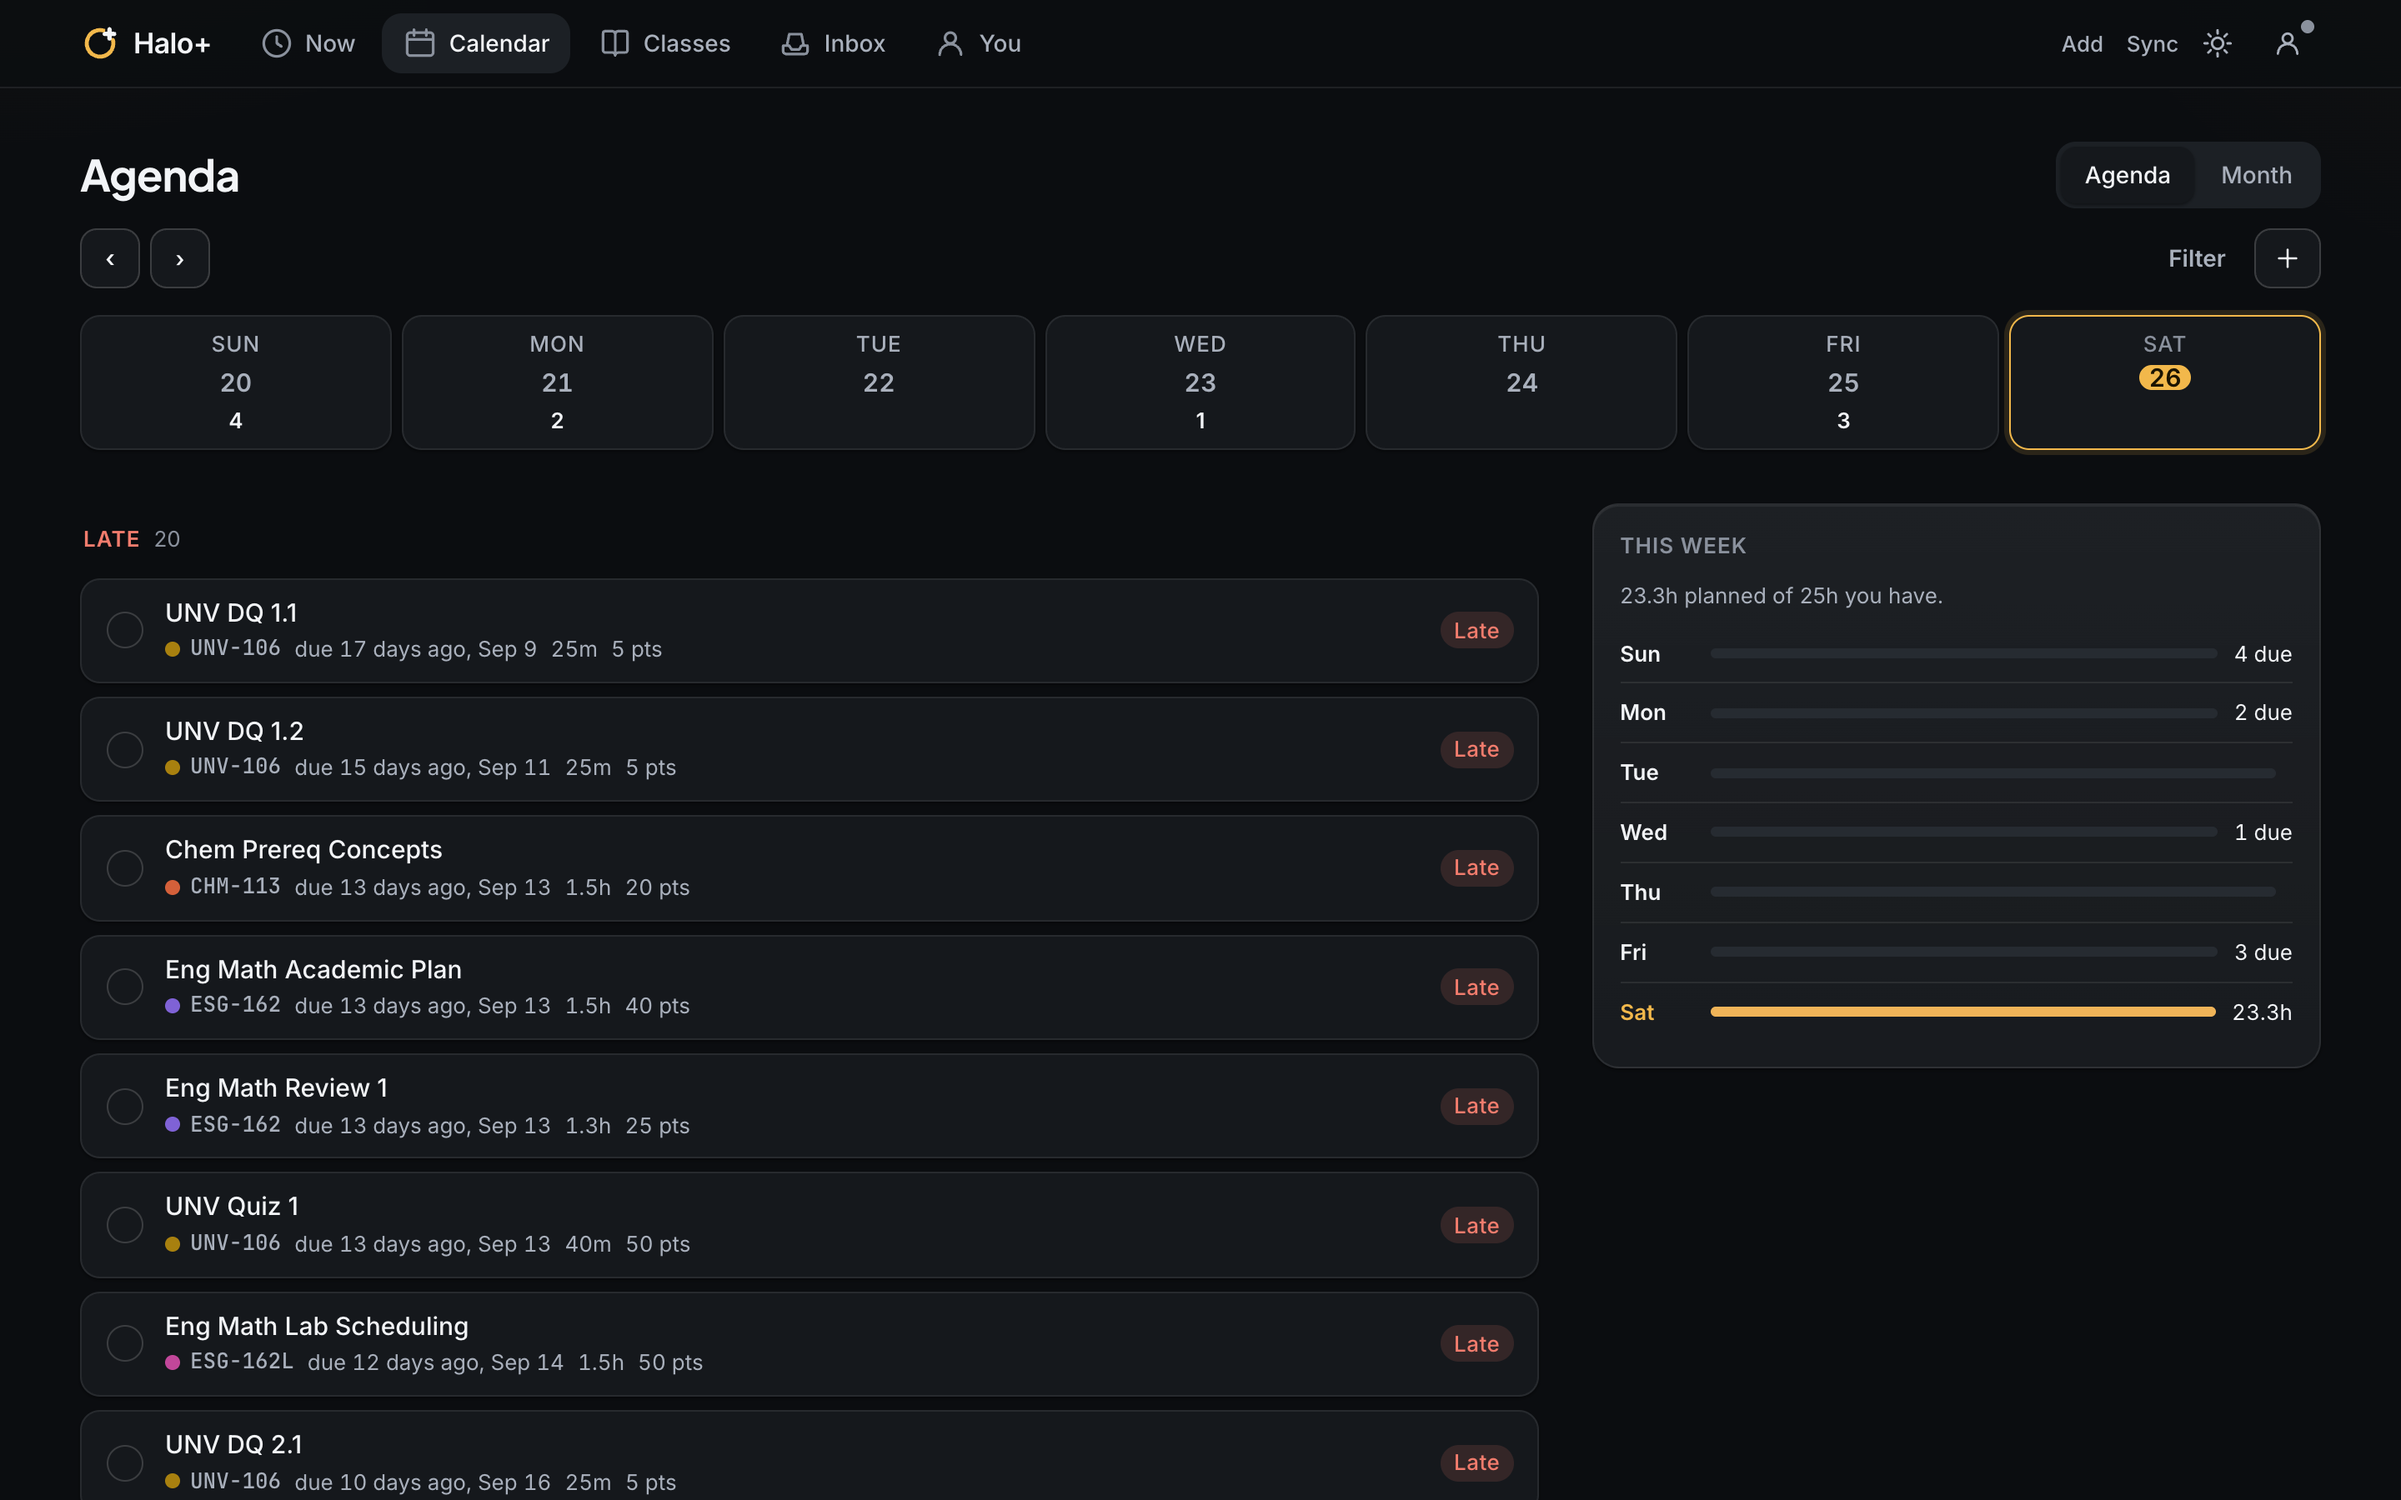
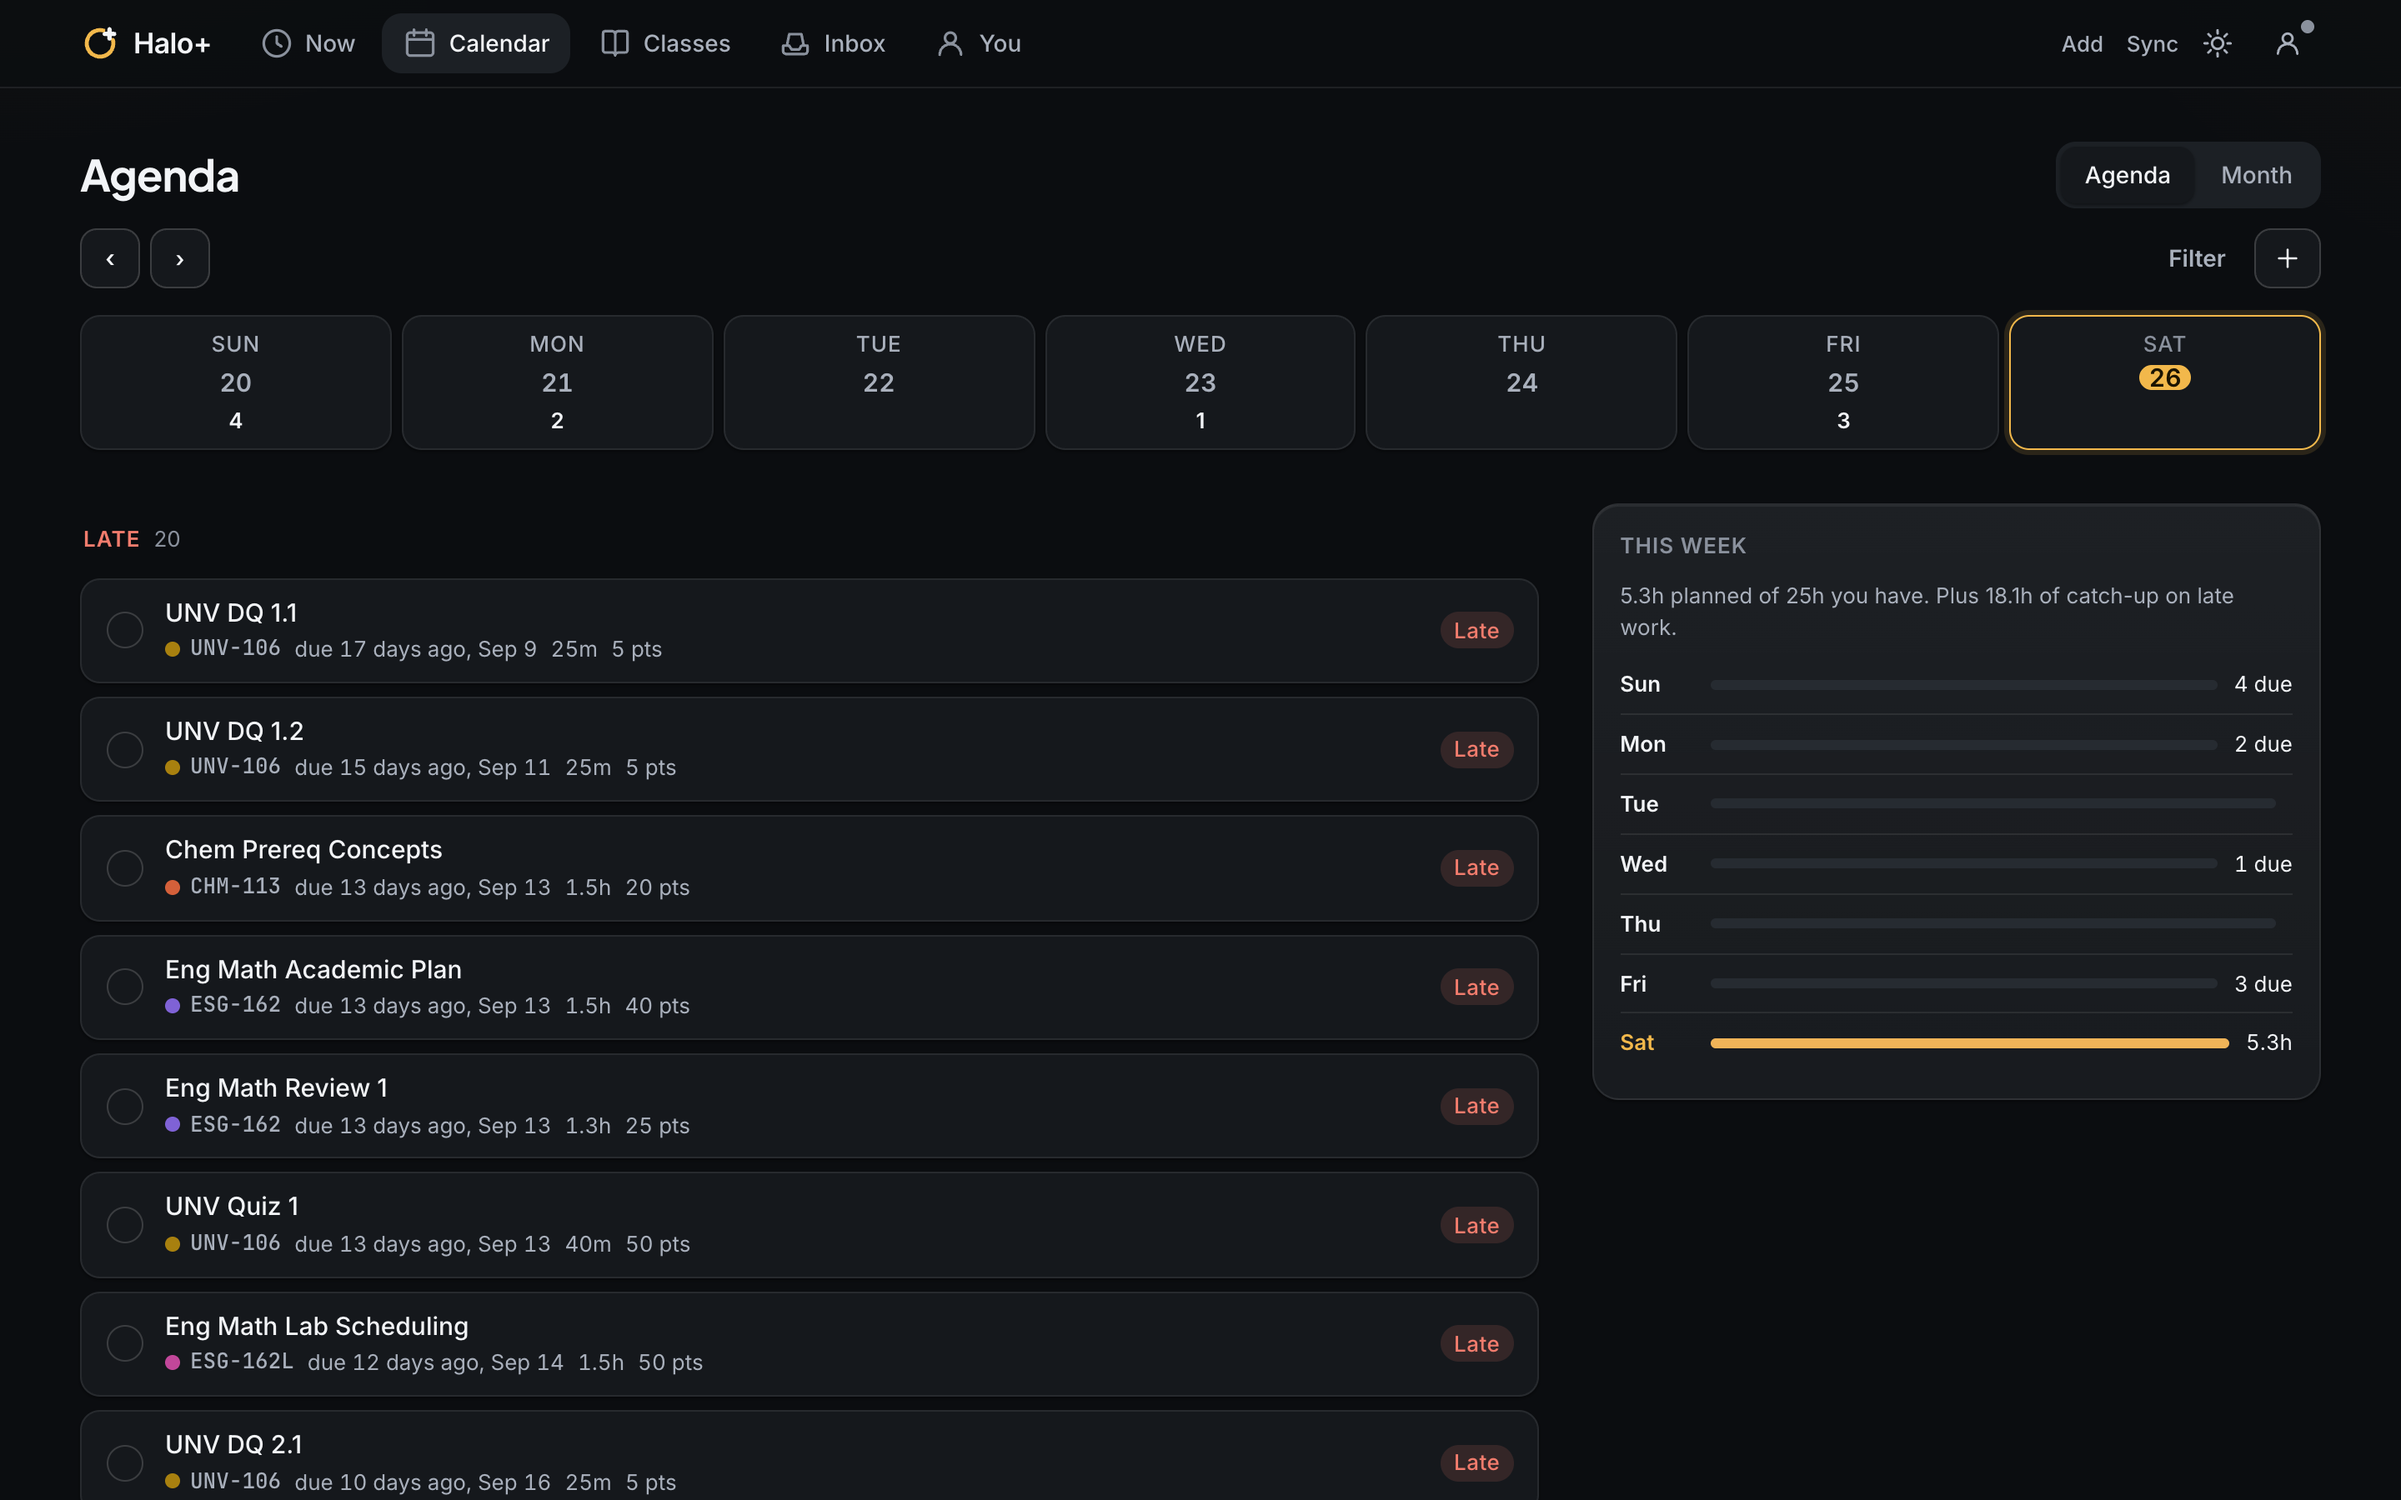
Loop 61: the week card keeps catch-up on late work apart from the plan

diff --git a/src/views/calendar/WeekGlance.tsx b/src/views/calendar/WeekGlance.tsx
@@ -11,19 +11,26 @@ export function WeekGlance({ start, items }: { start: DateStr; items: Item[] }) 
   const { data, schedule, today } = useStore();
   const tz = data.settings.timezone;
   const days = Array.from({ length: 7 }, (_, k) => addDays(start, k));
+  // Work already past its date gets planned onto whatever day is left, usually today. That is catch-up, not this
+  // week's plan; counted together they said "23h planned" of a 5h Saturday. The Load screen makes the same split.
+  const late = items.filter((i) => i.status !== 'done' && dateOf(i.dueAt, tz) < today);
+  const catchUpOn = (d: DateStr) => late.reduce((n, i) => n + (schedule.byItem[i.id]?.plannedByDay[d] ?? 0), 0);
   const rows = days.map((d) => {
     const due = items.filter((i) => i.status !== 'done' && !isNoise(i) && dateOf(i.dueAt, tz) === d).length;
-    const planned = schedule.loadByDay[d] ?? 0;
+    const catchUp = catchUpOn(d);
+    const planned = Math.max(0, (schedule.loadByDay[d] ?? 0) - catchUp);
     const cap = dayCapacity(data.settings, d);
-    return { d, due, planned, cap };
+    return { d, due, planned, catchUp, cap };
   });
   const total = rows.reduce((n, r) => n + r.planned, 0);
+  const catchUp = rows.reduce((n, r) => n + r.catchUp, 0);
   const capacity = rows.reduce((n, r) => n + r.cap, 0);
   return (
     <section className="card glance" aria-label="This week at a glance">
       <h3 className="section-title">This week</h3>
       <p className="hint">
         {fmtMinutes(total)} planned of {fmtMinutes(capacity)} you have.
+        {catchUp > 0 ? ` Plus ${fmtMinutes(catchUp)} of catch-up on late work.` : ''}
       </p>
       <ul className="glance-list">
         {rows.map((r) => (
@@ -31,8 +38,9 @@ export function WeekGlance({ start, items }: { start: DateStr; items: Item[] }) 
             <span className="glance-day">{DOW[new Date(`${r.d}T12:00:00Z`).getUTCDay()]}</span>
             <span className="glance-bar" aria-hidden>
               <i style={{ width: `${r.cap ? Math.min(100, (r.planned / r.cap) * 100) : 0}%` }} />
+              {r.catchUp > 0 && <i className="glance-catch" style={{ left: `${r.cap ? Math.min(100, (r.planned / r.cap) * 100) : 0}%`, width: `${r.cap ? Math.min(100 - Math.min(100, (r.planned / r.cap) * 100), (r.catchUp / r.cap) * 100) : 0}%` }} />}
             </span>
-            <span className="glance-n">{r.due ? `${r.due} due` : r.planned ? fmtMinutes(r.planned) : ''}</span>
+            <span className="glance-n">{r.due ? `${r.due} due` : r.planned ? fmtMinutes(r.planned) : r.catchUp ? 'catch-up' : ''}</span>
           </li>
         ))}
       </ul>

diff --git a/src/styles/screens.css b/src/styles/screens.css
@@ -2059,16 +2059,25 @@
   color: var(--accent-text);
 }
 .glance-bar {
+  position: relative;
   height: 6px;
   border-radius: 3px;
   background: var(--surface-3);
   overflow: hidden;
 }
 .glance-bar > i {
+  position: absolute;
+  top: 0;
+  left: 0;
   display: block;
   height: 100%;
   border-radius: 3px;
   background: var(--accent);
+}
+/* Catch-up on late work: hatched, after the day's own plan, so a full bar is never mistaken for a full day. */
+.glance-bar > i.glance-catch {
+  background: var(--hatch);
+  border-radius: 0 3px 3px 0;
 }
 .glance-row[data-over='true'] .glance-bar > i {
   background: var(--warn);

diff --git a/LOOP_LOG.md b/LOOP_LOG.md
@@ -77,3 +77,4 @@ One line per change, newest last. Proposals that need George's approval are mark
 - 2026-09-26 · Loop 58 · You → Invite a friend was a blank section for anyone signed out (the card returned nothing without a session), and Feedback was blank on a build without accounts. Both now say what is needed, and Invite carries a Log in button and the real reward ("You and a friend each get Plus for 30 days").
 - 2026-09-26 · Loop 59 · New-user bug: coming back from Google or the email link with a brand-new account landed on the Welcome screen with a "Sign up" button, as if nothing had happened. A signed-in newcomer now starts at the Halo step; the welcome's button and "Already have an account?" line only show to someone signed out.
 - 2026-09-26 · Loop 60 · Step back: every screen recaptured at desktop and phone with the guards on (no page overflows its width, one hero card on Now, no icon over 48px): 132 shots each, all clean. Two capture-script faults fixed on the way: the time-travel scenes' installed clock outlived them (everything after ran in October), and the started-hero scene left no check button for the next scene. Scenes print their names with VERBOSE=1.
+- 2026-09-26 · Loop 61 · The agenda's "This week" card counted catch-up on late work as this week's plan ("23.3h planned of 25h", a full Saturday bar). Like the Load screen, it now keeps the two apart: the day's own plan in gold, catch-up hatched after it, and one honest sentence ("3.3h planned of 25h you have. Plus 20h of catch-up on late work.").
